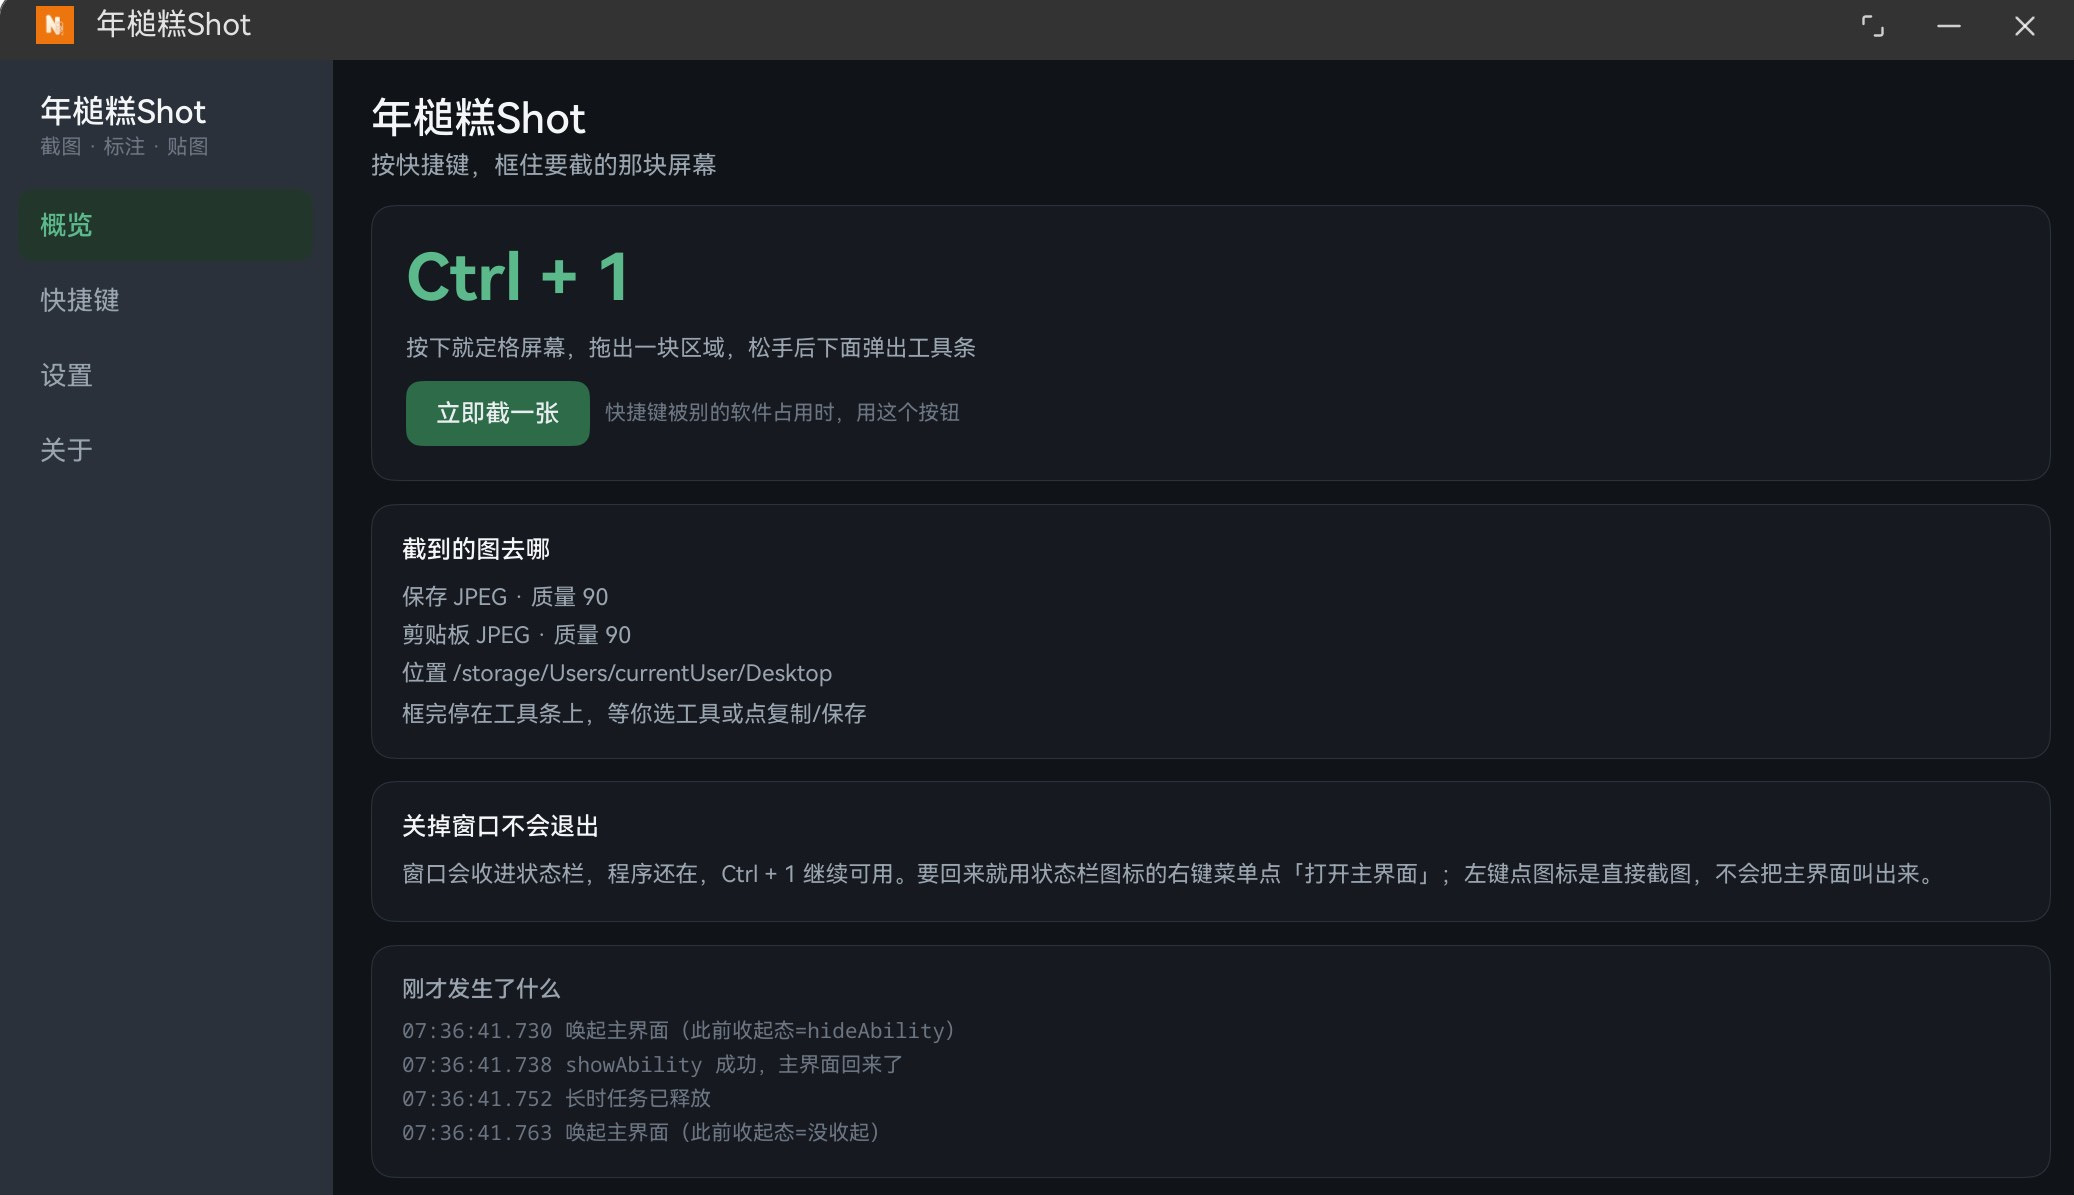
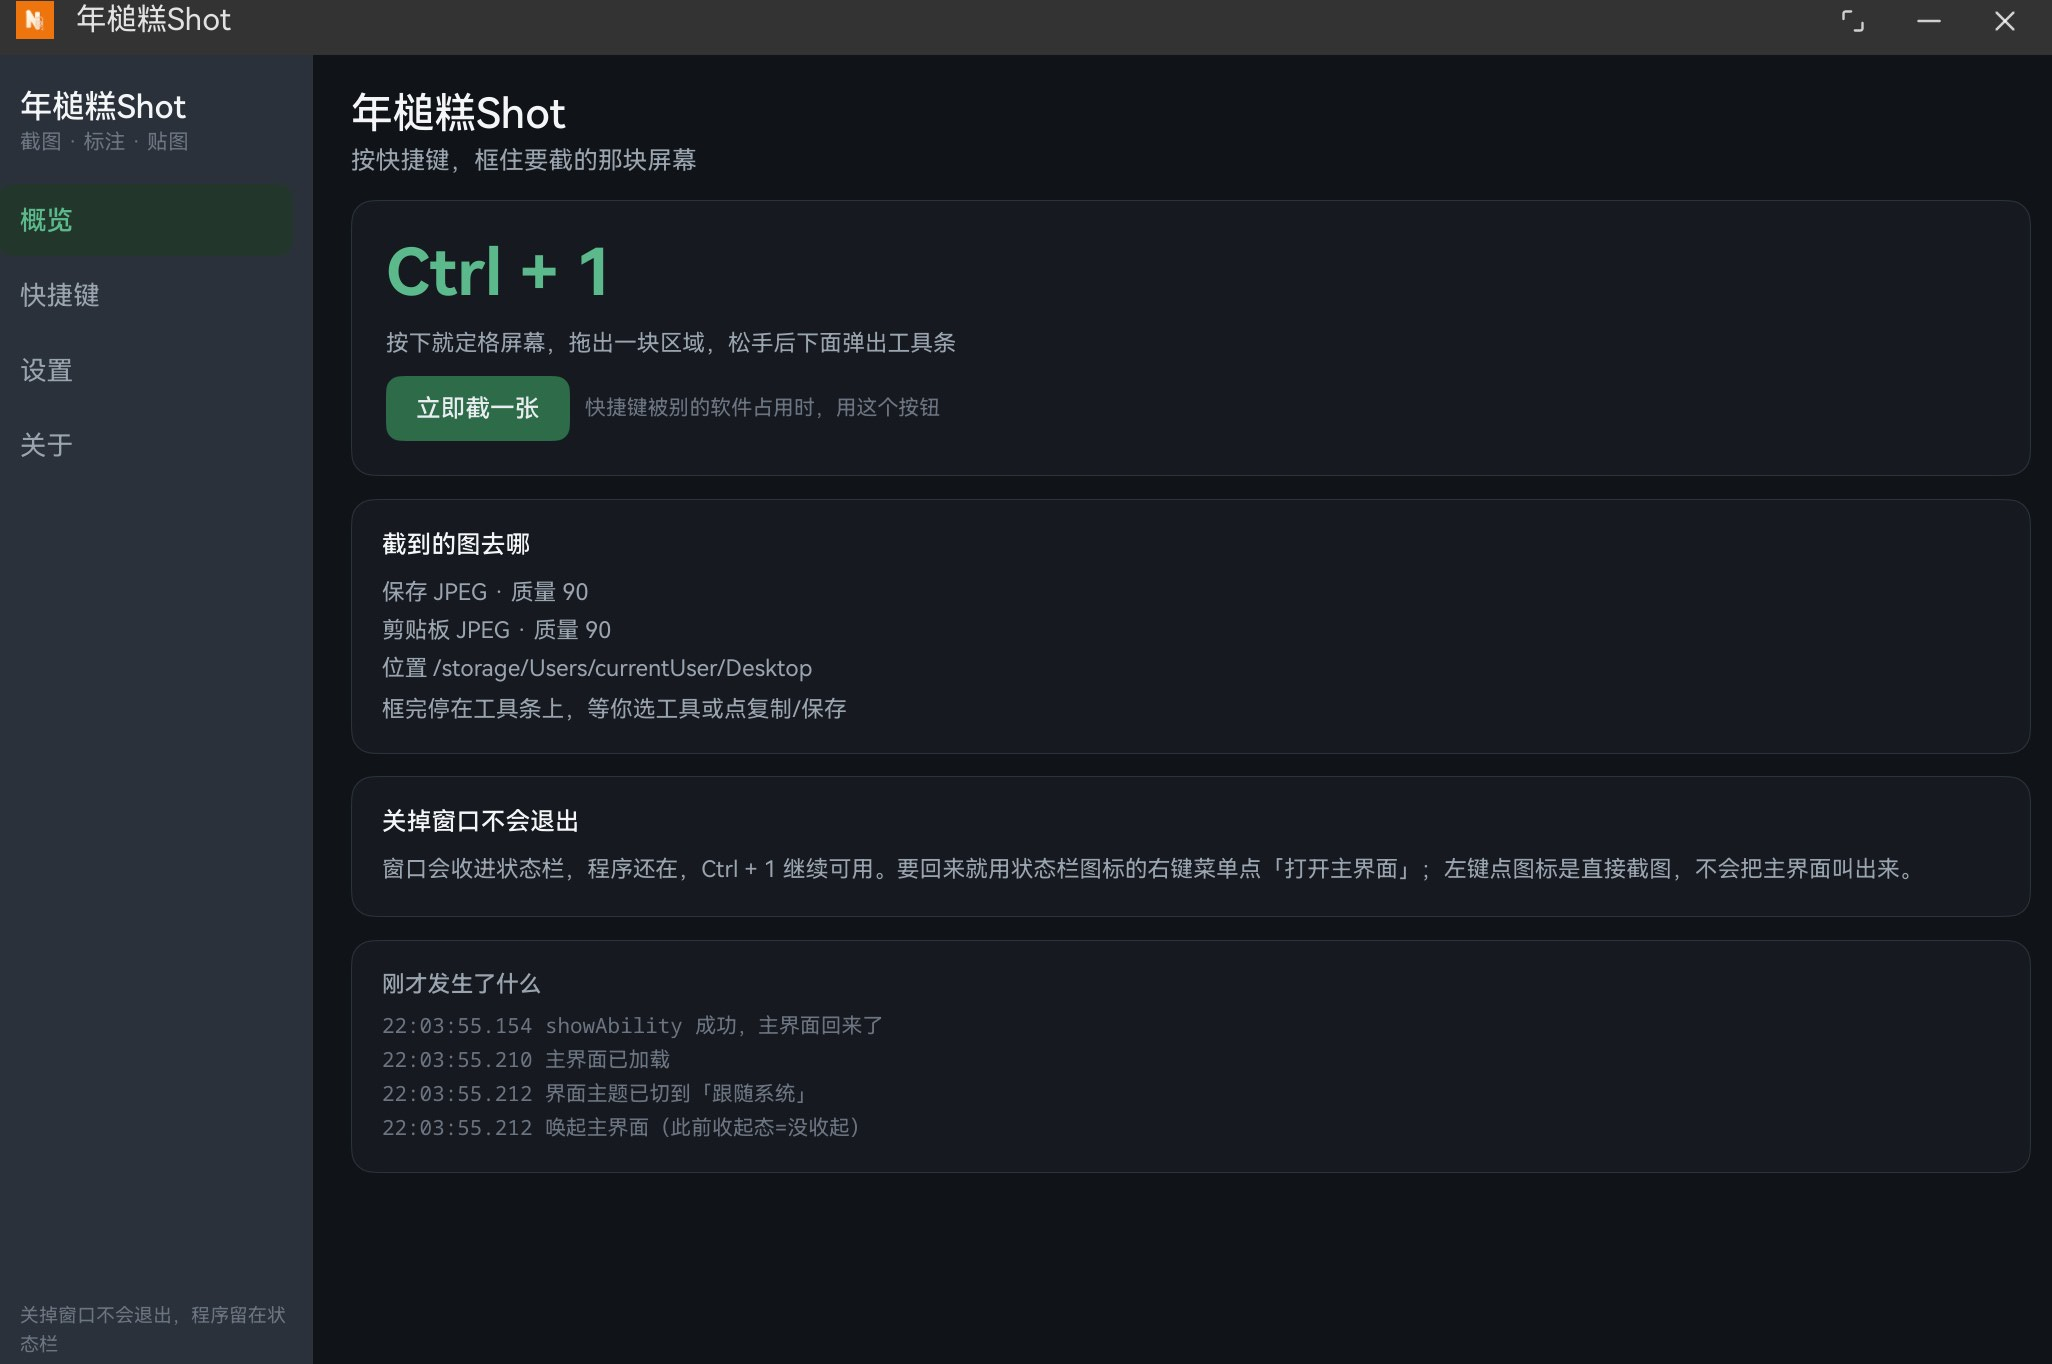
修改后台常驻逻辑，不用再通过常驻通知

diff --git a/README.md b/README.md
@@ -1,6 +1,6 @@
 # 年槌糕Shot（NGshot）
 
-鸿蒙 PC（HarmonyOS 2in1）上的截图工具。按一下 `Ctrl+1`，屏幕定格，拖出一块区域，就能在上面画框、加箭头、写字、打码，然后保存、复制、贴到桌面上，或者认出里面的文字。不截图的时候它收在状态栏，点图标就能截，关掉窗口也不退出。
+鸿蒙 PC（HarmonyOS 2in1）上的截图工具。按一下 `Ctrl+1`，屏幕定格，拖出一块区域，就能在上面画框、加箭头、写字、打码，然后保存、复制、贴到桌面上，或者认出里面的文字。打开应用就直接挂到状态栏，点图标就能截，关掉窗口也不退出。
 
 界面和功能都按鸿蒙原生的方式实现，没有套网页壳，不带任何第三方库，也不联网。
 
@@ -45,7 +45,7 @@
 - 保存成 PNG / JPEG / WebP，文件名是 `NGshot-年月日-时分秒.扩展名`。
 - 质量只对 JPEG 有效，PNG 和 WebP 是无损的，所以滑条只在 JPEG 时可拖。
 - 保存位置可以自己挑目录，授权一次，之后每次启动都还记得。默认在应用自己的沙箱目录里。
-- 复制到剪贴板会先按你设的格式和质量压一遍，粘出来的是压缩后的那张图。
+- 复制到剪贴板会先按你设的格式和质量压一遍，粘出来的是压缩后的那张图；剪贴板只能带位图，所以粘出来通常是 PNG，为什么不由我们定见下面的取舍。
 
 自动动作可以在设置里定：松手就复制、就保存、就贴图，或者什么都不做停在工具条上。按住鼠标中键拖框，这一次就先不自动执行——中键要在松手之前按下。
 
@@ -76,19 +76,20 @@
 
 ### 收在状态栏
 
+- 打开应用就直接挂到状态栏，不弹主界面。要开主界面，用右键菜单里的「打开主界面」。
+- 点图标左键就是截图，主界面一帧都不露。
 - 点标题栏的 X 不是关掉，是收进状态栏。进程还在，快捷键照常可用。
-- 点图标左键就是截图，主界面一帧都不露；要回主界面用右键菜单里的「打开主界面」。
 - 退出也用右键菜单里那一项（系统自己加的那个）。
 - 状态栏图标是自己画的一个字母 N，跟应用图标一个记号。
 
-收起之后进程要一直活着，快捷键才叫得醒它，所以应用会申请一条长时任务。系统为此常驻一条「年槌糕Shot 正在运行计算任务，删除通知后任务将停止」的提示——这条提示由系统生成，文案改不了，也藏不掉，只在应用处于收起或后台状态时存在，回到主界面就消失。它右边那个 × 是可以按的，但按下去等于停掉长时任务：进程随后可能被系统冻结，`Ctrl+1` 就不再保证有反应，得先打开主界面把应用唤回来才恢复。
+窗口收起后进程还得活着，快捷键才叫得醒它。这一版把进程绑到状态栏图标上——这是鸿蒙 PC 给托盘应用的保活方式——不再申请长时任务，所以也没有那条「正在运行计算任务」的常驻通知。
 
 ### 设置
 
 主界面左边是导航、右边是内容，四栏：概览、快捷键、设置、关于。
 
 - **外观**：跟随系统 / 浅色 / 深色，切换后所有窗口一起变。
-- **输出**：保存和剪贴板各有自己的格式与质量，保存目录可以自己挑。
+- **输出**：保存成文件用哪个格式，写出来的就是哪个格式的文件；剪贴板的格式与质量只管压缩，粘出来存成 PNG 还是 JPEG 由对方应用决定。保存目录可以自己挑。
 - **框选**：框选后自动动作、记忆上次的框（下次按同样的比例摆回）、参考线、四角坐标。
 - **快捷键**：默认 `Ctrl+1`，可以改成 Ctrl / Shift / Alt 里的一个或两个，配字母、数字或者 F1–F12。改不上会退回原来的组合，不会出现「改了但没生效」。
 - **日志**：设置页最下面有最近 30 行，出问题时可以复制出来。完整日志在应用沙箱的 `files/probe.log`。
@@ -96,6 +97,8 @@
 ![主界面概览](assets/screenshots/02-overview.png)
 
 ![设置页](assets/screenshots/03-settings.png)
+
+![关于页](assets/screenshots/04-about.png)
 
 ## 几处不太直观的取舍
 
@@ -107,6 +110,7 @@
 - **全屏层刚上屏那一瞬间没有键盘焦点。** 这时按 Esc 没反应，得先点一下窗口。第三方没有「主动要焦点」的公开接口，只能在窗口起来之后主动唤一次、再轮询有没有拿到。
 - **一次鼠标按下会来两份事件**（鼠标一份、合成的触屏一份），所以拖动、开输入框这些动作要按「同一个点、短时间内的第二份」去重，不然会重复触发。
 - **贴图不能是子窗口，但可以置顶。** 子窗口调置顶会报错（1300004），跨应用全局悬浮窗（`TYPE_FLOAT`）要受限权限（201）；而贴图是独立能力的主窗口，`setWindowTopmost(true)` 在它身上是能用的，所以贴图会压在其他应用上面。
+- **粘出来是 PNG，不是我们定的。** 官方 pasteboard 一共只有 5 个基础类型——`text/html`、`text/want`、`text/plain`、`text/uri`、`pixelMap`，图像的标准载体只有 `pixelMap` 一种，根本没有 `image/jpeg` 这种类型。所以我们只能把图按位图放进剪贴板：设置里的格式和质量决定的是压得多狠（也就是多糊），至于对方存下来是 PNG 还是 JPEG，由接收方按它自己的默认来，多数默认 PNG（无损）。想要一个真正的 `.jpg` 文件，走「保存成文件」那条路。
 
 ## 已知限制
 
@@ -121,7 +125,7 @@
 
 - HarmonyOS 2in1，编译与兼容 SDK 都是 `6.1.0(23)`（API 23）。
 - 只在 HUAWEI MateBook Pro（3120×2080，缩放约 1.9）上实测过。
-- 申请的权限只有几条：截屏、窗口置顶、后台常驻（收起后快捷键还能用）、保存目录的持久授权。
+- 申请的权限只有三条：截屏、窗口置顶、保存目录的持久授权。
 
 用 DevEco Studio 打开本目录，在 `File > Project Structure` 里补签名就能运行。带签名的 `build-profile.json5` 不入库，仓库里给的是模板 `build-profile.example.json5`，复制一份改名后填 `signingConfigs`。
 
@@ -135,9 +139,9 @@
 NGshot/
 ├─ AppScope/                     应用级资源：图标、应用名
 ├─ entry/src/main/
-│  ├─ module.json5               四个 UIAbility + 权限声明
+│  ├─ module.json5               五个 UIAbility + 权限声明
 │  ├─ ets/
-│  │  ├─ entryability/           主窗、框选层、结果窗、贴图窗（各是一个能力）
+│  │  ├─ entryability/           主窗、框选层、结果窗、贴图窗（各是一个能力），外加一个只用来挂状态栏的后台能力
 │  │  ├─ pages/                  主界面、框选标注页、结果窗页、贴图页
 │  │  ├─ views/                  概览 / 快捷键 / 设置 / 关于 四栏
 │  │  ├─ common/                 截图流程、图片编解码、标注、长截图、识别、设置、托盘等
